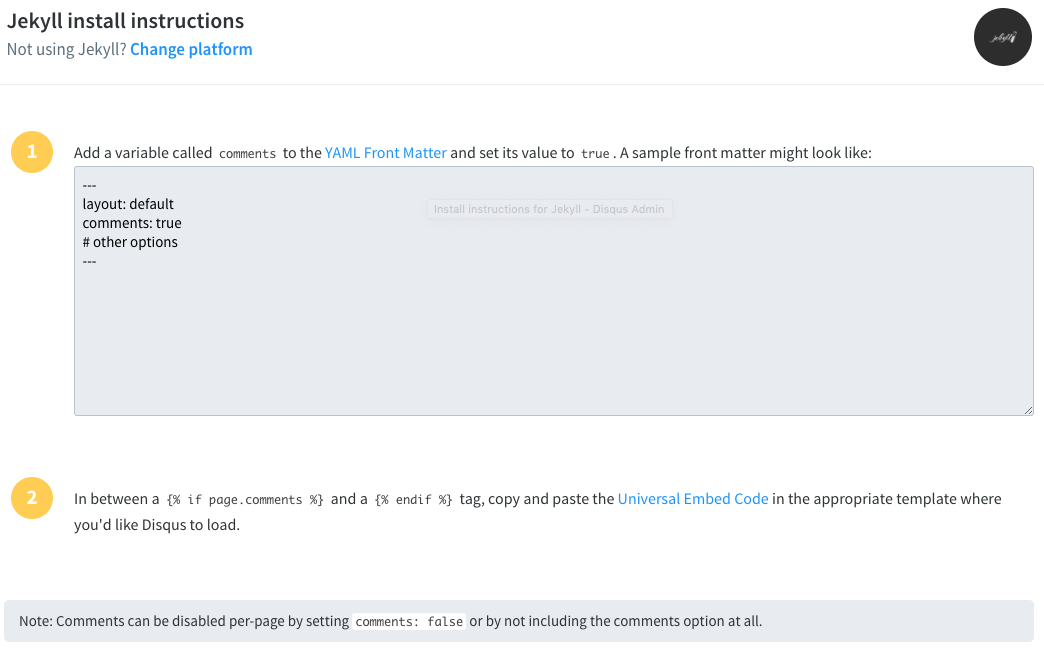
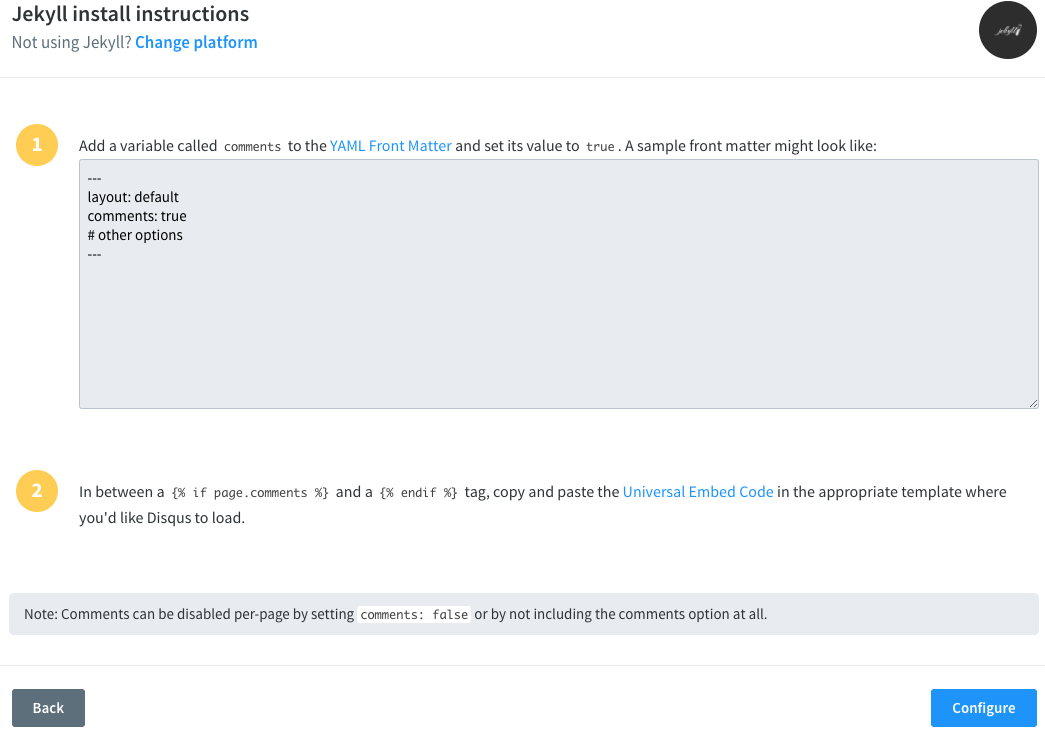
jekyll disqus 댓글 기능 추가 하는 방법

diff --git a/_posts/2020-07-29-disqus-jekyll.md b/_posts/2020-07-29-disqus-jekyll.md
@@ -40,35 +40,43 @@ Jekyll 선택
 
 ![disqus 설정5](/assets/images/20200729/disqus_setting_05.png)
 
-jekyll에 disqus에 코드삽입 방법을 알려주는 페이지 입니다
-
-jekyll에서 post를 생성할때 
-
-    
-    ---
-    layout: post
-    title:  "jekyll에 댓글기능 추가하기 ft. Disqus"
-    permalink: /:categories/:year/:month/:day/:title/
-    date:   2020-07-29 14:30:00 +0900
-    categories: posts
-    tags: [disqus, jekyll, 댓글]
-    comments: true
-    ---
-
-comments: true 이 코드를 추가하고
-
-Universal Embed Code 를 클릭을 합니다
+Configure 버튼 선택
 
 ![disqus 설정6](/assets/images/20200729/disqus_setting_06.png)
 
-_layouts/default.html
+Complete Setup 버튼 선택해서 완료
 
-```liquid
-{% if page.comments %}
-    Universal Embed Code 삽입
-{% endif %}
-```
-    
-    
-post 레이아웃 부분에 해당 코드를 삽입합니다
+![disqus 설정7](/assets/images/20200729/disqus_setting_07.png)
+
+Setting 선택
+
+![disqus 설정8](/assets/images/20200729/disqus_setting_08.png)
+
+shortname 값을 복사합니다
+
+Minimal Mistakes 테마의 경우 disqus 설정을 <code>_config.yml</code>에서 설정합니다
+
+~~~
+comments:
+  provider               : "disqus" # false (default), "disqus", "discourse", "facebook", "staticman", "staticman_v2", "utterances", "custom"
+  disqus:
+    shortname            : shortname입력 # https://help.disqus.com/customer/portal/articles/466208-what-s-a-shortname-
+~~~
+
+post 헤더 부분에
+
+~~~
+---
+title:  "jekyll에 댓글기능 추가하기 ft. Disqus"
+tags: [disqus, jekyll, 댓글]
+use_math: true
+comments: true
+---
+~~~
+
+comments: true  추가 후 완료
+
+git push 후 사이트에서 확인
+
+![disqus 설정9](/assets/images/20200729/disqus_setting_09.png)
 
